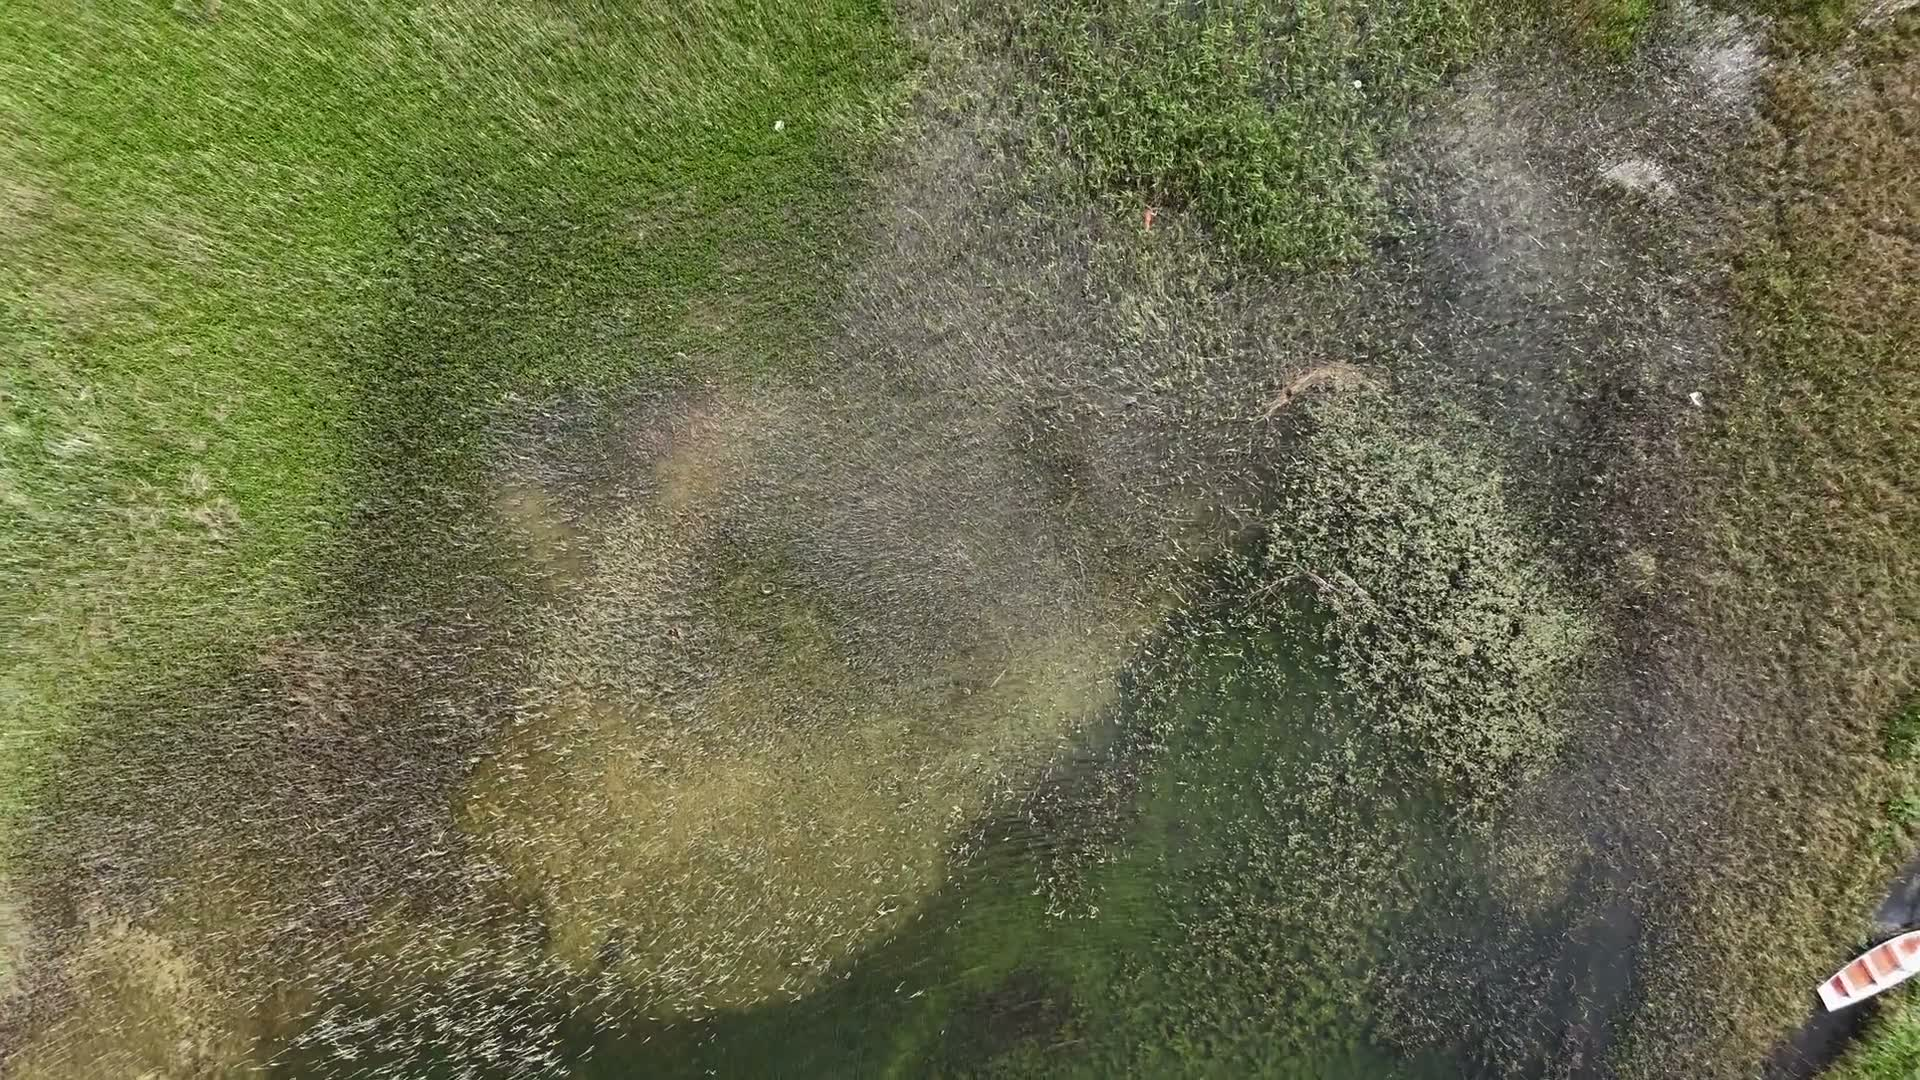
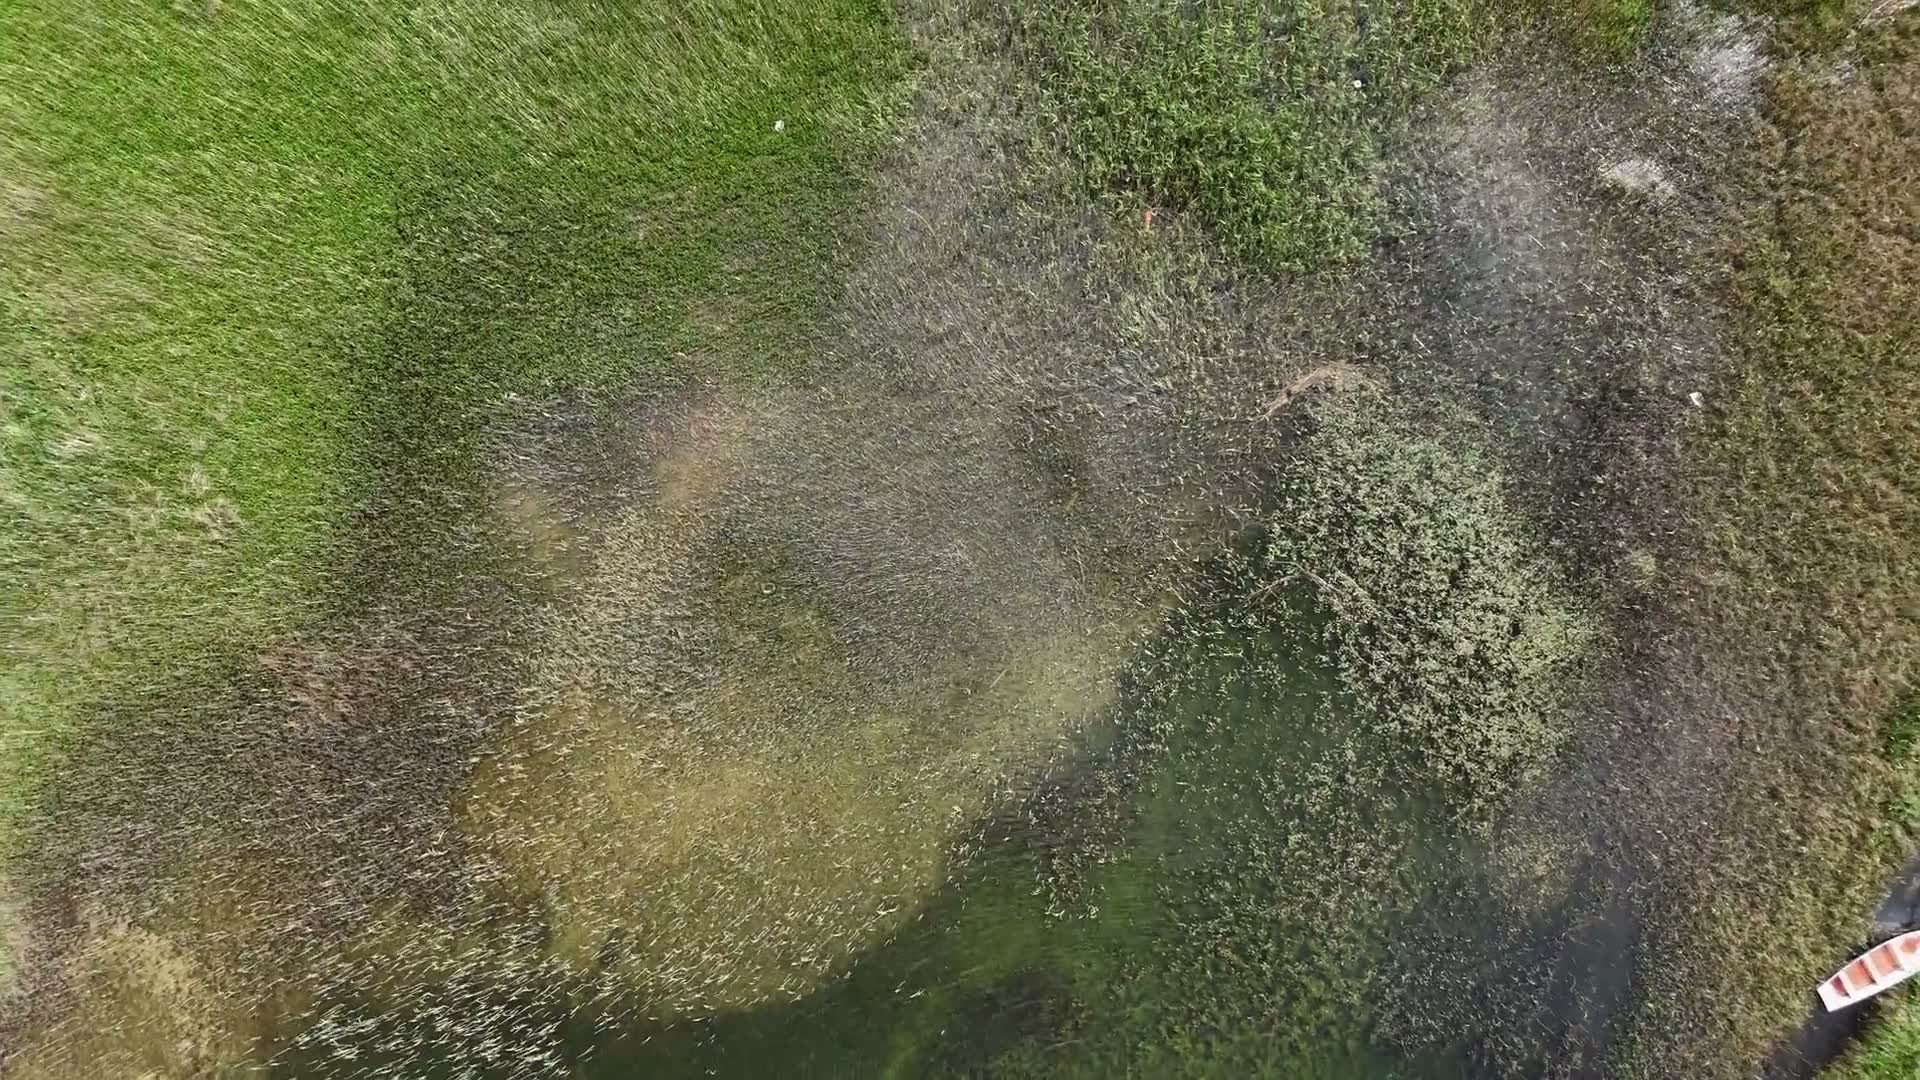
Hero shot 3 at full quality; new headline with saffron highlights; left-aligned panel

diff --git a/css/style.css b/css/style.css
@@ -188,7 +188,10 @@ img, svg { max-width: 100%; display: block; }
   );
 }
 
-.hero__inner { width: min(1120px, 92%); }
+.hero__inner {
+  width: 100%;
+  padding-inline: clamp(1.2rem, 3vw, 2.5rem);
+}
 
 .hero__copy {
   max-width: 40em;

diff --git a/index.html b/index.html
@@ -104,7 +104,7 @@
       <div class="container hero__inner">
         <div class="hero__copy reveal">
           <p class="hero__kicker">Videography · Dublin &amp; Wicklow, Ireland</p>
-          <h1 class="hero__title">Every story has a <em>soul,</em><br>we bring it to life on screen.</h1>
+          <h1 class="hero__title">Every <em>story</em> has a <em>soul,</em><br>let <em>us</em> bring <em>yours</em> to life</h1>
           <p class="hero__sub">Glad Animal Movements is the Dublin &amp; Wicklow-based videography studio of Conor Donelan — bringing fifteen years of performance and stagecraft to corporate, community and arts video production across Ireland.</p>
           <div class="hero__actions">
             <a class="btn btn--primary" href="#showreel">▶&nbsp; Watch the Showreel</a>